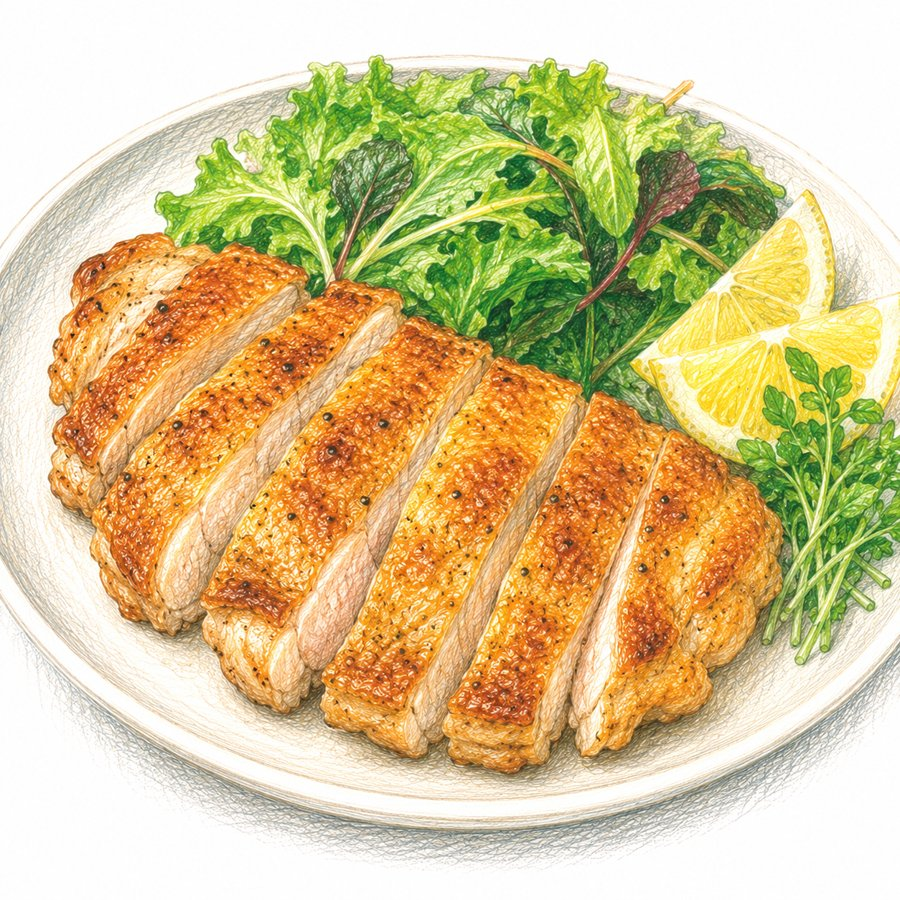
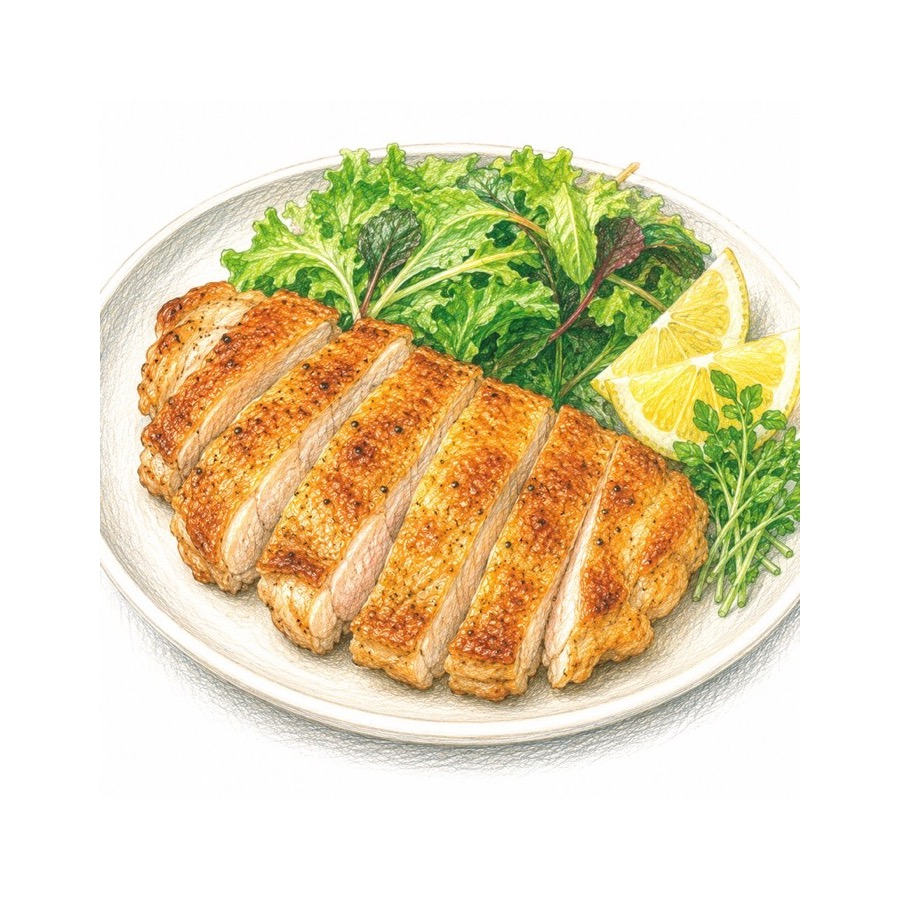
Add files via upload

diff --git a/recipe/index.html b/recipe/index.html
@@ -165,7 +165,7 @@
     }
 
     .hero-banner h1 {
-      font-family: 'Klee One', 'Hiragino Maru Gothic ProN', sans-serif;
+      font-family: 'Hiragino Maru Gothic ProN', 'Yu Gothic UI', 'Hiragino Sans', sans-serif;
       font-weight: 600;
       font-size: clamp(22px, 3.4vw, 34px);
       font-weight: 400;
@@ -1653,7 +1653,7 @@ const recipes = [
       "甘麹と牛乳を加えてよく混ぜ合わせる。",
       "保存容器に流し入れて冷凍庫へ。途中1〜2回かき混ぜると、なめらかに仕上がる（冷凍3〜4時間）。",
     ],
-    tip: "砂糖ゼロでもしっかり甘い、麹の実力を感じる一品。バナナやいちごを混ぜ込んでアレンジしても！",
+    tip: "砂糖ゼロでもしっかり甘い、麹の実力を感じる一品。バナナやいちごを混ぜ込んでアレンジしても！　生クリームなしでもOK：牛乳250mlに甘麹100gを混ぜて同じ手順で冷凍するだけ。あっさりやさしい味わいに。",
   },
 
   {
@@ -2540,6 +2540,52 @@ const recipes = [
       "トースターでこんがり焼き色がつくまで焼いたら完成！",
     ],
     tip: "お好みで刻みパセリを散らしても。麹は焦げやすいので、様子を見ながら焼いてください。",
+  },
+
+  {
+    id: 73,
+    category: "甘麹",
+    color: "color-amazakoji",
+    emoji: "🍋",
+    title: "甘麹レモン炭酸",
+    image: "lemon-soda.jpg",
+    desc: "甘麹のやさしい甘みにレモンの酸味がキュッ。混ぜるだけでできる、シュワッと爽やかな麹ドリンク。",
+    time: "3分",
+    serving: "1人分",
+    level: "簡単",
+    tags: ["簡単", "時短", "ヘルシー"],
+    ingredients: [
+      { name: "甘麹", amount: "大さじ2" },
+      { name: "レモン汁", amount: "小さじ1" },
+      { name: "炭酸水", amount: "100ml" },
+    ],
+    steps: [
+      "グラスに甘麹とレモン汁を入れてよく混ぜる。",
+      "炭酸水を注いで、軽く混ぜたら完成。",
+    ],
+    tip: "氷を入れてキンキンに冷やすと最高。輪切りレモンやミントを添えるとカフェ風に！",
+  },
+
+  {
+    id: 74,
+    category: "甘麹",
+    color: "color-amazakoji",
+    emoji: "🥣",
+    title: "かけるだけ！甘麹ヨーグルト",
+    desc: "いつものヨーグルトにひとさじかけるだけ。罪悪感のない天然の甘みで、ヘルシーな和風デザートに。",
+    time: "1分",
+    serving: "1人分",
+    level: "簡単",
+    tags: ["簡単", "時短", "朝ごはん", "ヘルシー"],
+    ingredients: [
+      { name: "プレーンヨーグルト（無糖）", amount: "お好みの量" },
+      { name: "甘麹", amount: "大さじ1〜" },
+    ],
+    steps: [
+      "器にヨーグルトを盛る。",
+      "甘麹をかけるだけで完成！",
+    ],
+    tip: "きな粉やフルーツとの相性も抜群。お砂糖代わりに、スムージーや煮物・卵焼きにも使えます。",
   },
 ];
 
